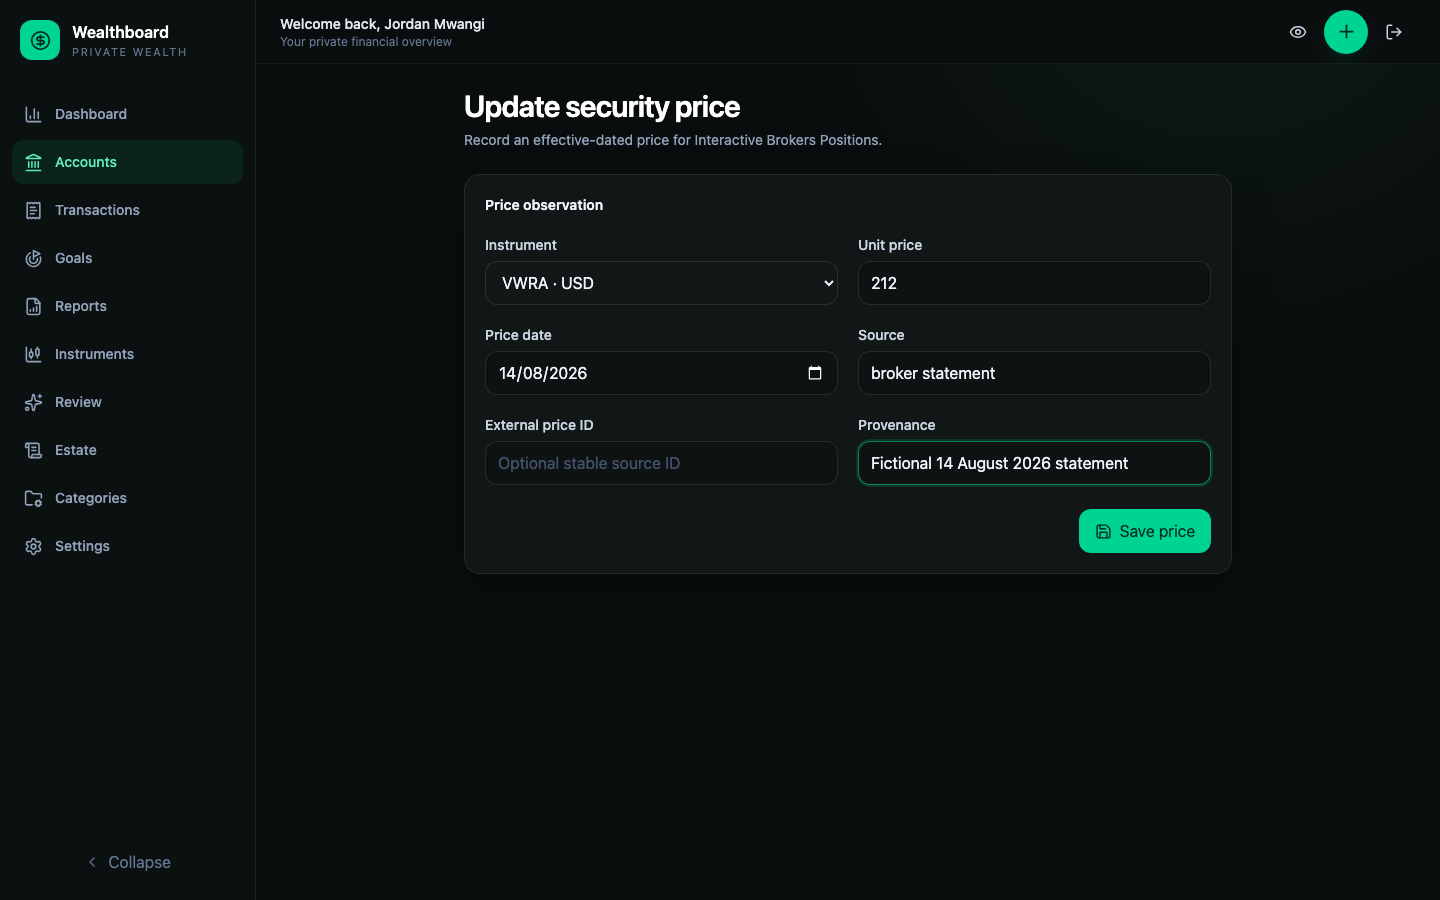
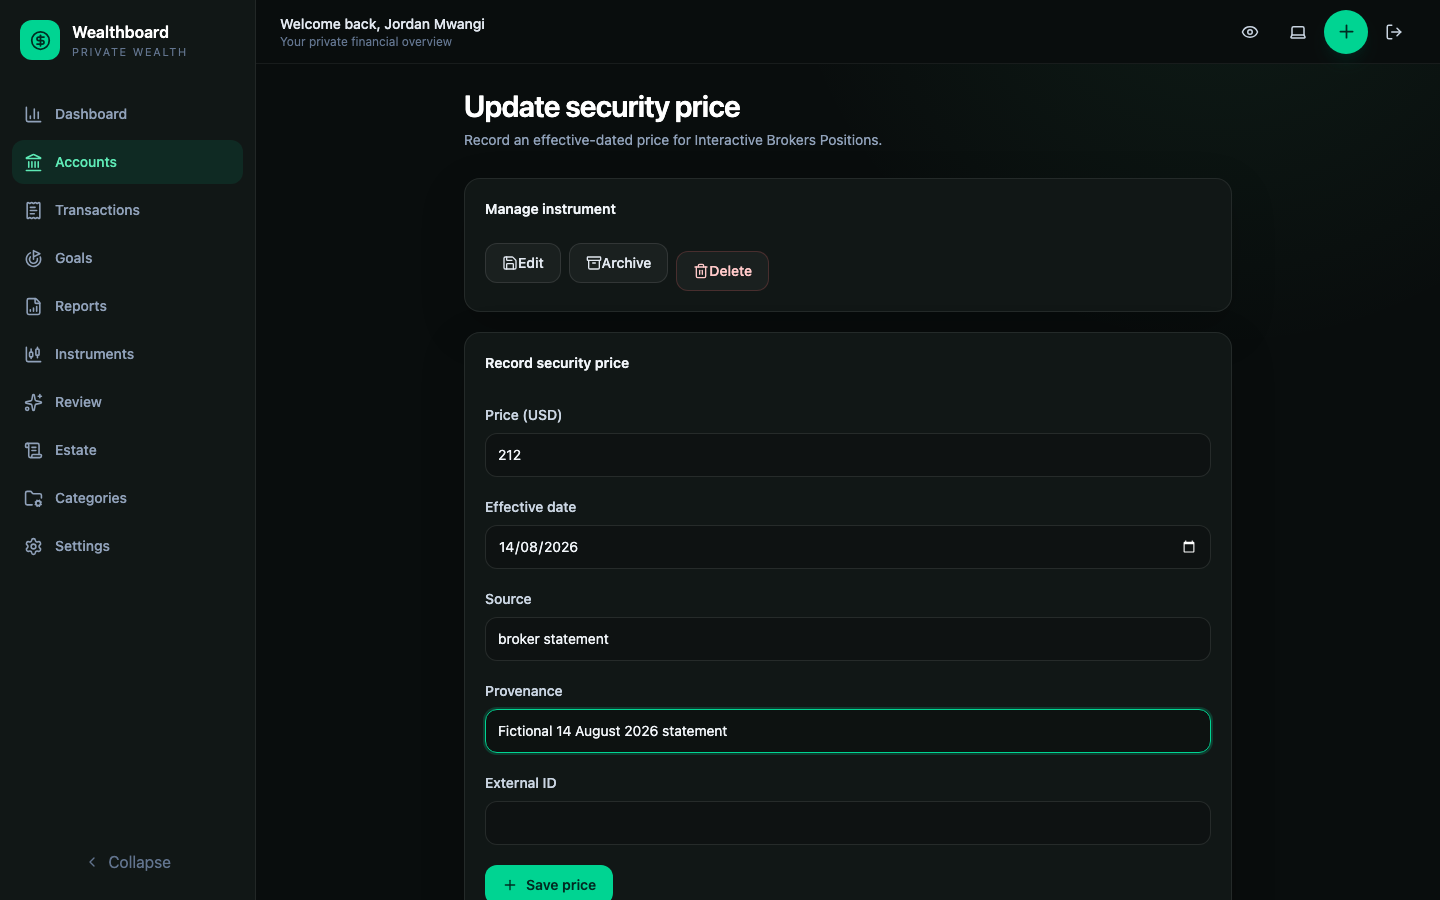
feat: add CorporateActionsPanel component and integrate with AccountWorkflowPage; update tests for new functionality

diff --git a/tests/docs/capture.spec.ts b/tests/docs/capture.spec.ts
@@ -194,7 +194,7 @@ test("capture the Wealthboard product guide", async ({ page }) => {
   ).toBeVisible();
   await page.getByRole("link", { name: "Price", exact: true }).click();
   await page.getByLabel(/^Price \(/).fill("212");
-  await page.getByLabel("Price date").fill("2026-08-14");
+  await page.getByLabel("Effective date").fill("2026-08-14");
   await page.getByLabel("Source").fill("broker statement");
   await page
     .getByLabel("Provenance")
@@ -202,44 +202,51 @@ test("capture the Wealthboard product guide", async ({ page }) => {
   await capturePage(page, "security-price-entry.png");
   await page.getByRole("button", { name: "Save price" }).click();
 
+  await page.goto(`/accounts/${positionAccountId}`);
   await page.getByRole("link", { name: "Reinvest" }).click();
-  await page.getByLabel(/Dividend amount/).fill("106");
-  await page.getByLabel("Execution price per unit").fill("212");
-  await page.getByLabel("Purchased quantity").fill("0.5");
+  await page.getByLabel(/^Dividend \(/).fill("106");
+  await page.getByLabel("Unit price").fill("212");
+  await page.getByLabel("Quantity").fill("0.5");
   await page.getByLabel("Effective date").fill("2026-08-14");
-  await page.getByLabel("Private notes").fill("Fictional reinvestment");
+  await page.getByLabel("Notes").fill("Fictional reinvestment");
   await captureLocator(
-    cardForHeading(page, "Authoritative source activity"),
+    cardForHeading(page, "Corporate actions"),
     "investment-actions.png",
   );
-  await page
-    .getByRole("button", { name: "Save dividend reinvestment" })
-    .click();
+  await page.getByRole("button", { name: /Record Dividend/ }).click();
 
+  await page.goto(`/accounts/${positionAccountId}`);
   await page.getByRole("link", { name: "Reconcile" }).click();
-  await page.getByLabel("Statement date").fill("2026-08-14");
-  await page.getByLabel(/Reported cash/).fill("905");
-  await page.getByLabel(/Reported total/).fill("4405");
-  await page.getByLabel("Notes").fill("Fictional broker statement comparison");
-  await page.getByRole("button", { name: "Save reconciliation" }).click();
+  const reconciliation = page
+    .getByLabel("Observation date")
+    .locator("xpath=ancestor::form");
+  await reconciliation.getByLabel("Observation date").fill("2026-08-14");
+  await reconciliation.getByLabel(/Reported cash/).fill("905");
+  await reconciliation.getByLabel(/Reported total/).fill("4405");
+  await reconciliation
+    .getByLabel("Notes")
+    .fill("Fictional broker statement comparison");
+  await reconciliation
+    .getByRole("button", { name: "Save reconciliation" })
+    .click();
   await expect(
-    page.getByRole("heading", { name: "Statement reconciliations" }),
+    page.getByText("Fictional broker statement comparison", { exact: true }),
   ).toBeVisible();
+  await page.goto(`/accounts/${positionAccountId}`);
   await capturePage(page, "position-account-detail.png");
 
   await page.goto(`/accounts/${positionAccountId}/import`);
+  await page.getByLabel("Convert document with AI").check();
   await expect(
-    page.getByRole("heading", {
-      name: "Prepare your investment file with AI",
-    }),
+    page.getByRole("heading", { name: "Source file conversion" }),
   ).toBeVisible();
-  await page.getByRole("button", { name: "Show prompt" }).click();
   await captureLocator(
-    cardForHeading(page, "Prepare your investment file with AI"),
+    cardForHeading(page, "Source file conversion"),
     "investment-ai-prompt.png",
   );
-  await page.getByRole("button", { name: "Hide prompt" }).click();
-  await page.getByLabel("CSV or JSON file").setInputFiles({
+  await page.getByLabel("Formatted CSV / JSON").check();
+  const investmentImport = cardForHeading(page, "Investment history import");
+  await investmentImport.getByLabel("Import file").setInputFiles({
     name: "fictional-investment-history.json",
     mimeType: "application/json",
     buffer: Buffer.from(
@@ -292,7 +299,7 @@ test("capture the Wealthboard product guide", async ({ page }) => {
       }),
     ),
   });
-  await page.getByRole("button", { name: "Preview file" }).click();
+  await investmentImport.getByRole("button", { name: "Preview" }).click();
   await expect(
     page.getByText(/Interactive Brokers Positions · 3 source records/),
   ).toBeVisible();

diff --git a/web/src/components/accounts/advanced-workflows.test.tsx b/web/src/components/accounts/advanced-workflows.test.tsx
@@ -1,7 +1,10 @@
 import { fireEvent, render, screen, waitFor } from "@testing-library/react";
 import { afterEach, describe, expect, it, vi } from "vitest";
 
-import { ImportWorkspace } from "@/components/accounts/advanced-workflows";
+import {
+  CorporateActionsPanel,
+  ImportWorkspace,
+} from "@/components/accounts/advanced-workflows";
 import * as api from "@/api/client";
 import type { Account } from "@/lib/types";
 
@@ -79,5 +82,32 @@ describe("ImportWorkspace", () => {
       ),
     );
     expect(changed).toHaveBeenCalledOnce();
+  });
+});
+
+describe("CorporateActionsPanel", () => {
+  it("opens in the action selected by the routed quick command", () => {
+    render(
+      <CorporateActionsPanel
+        account={account}
+        accounts={[account]}
+        instruments={[
+          {
+            id: "22222222-2222-4222-8222-222222222222",
+            name: "Example World ETF",
+            symbol: "EWLD",
+          } as never,
+        ]}
+        events={[]}
+        session={session}
+        onChanged={vi.fn()}
+        initialKind="dividend-reinvestments"
+      />,
+    );
+
+    expect(screen.getByLabelText("Action")).toHaveValue(
+      "dividend-reinvestments",
+    );
+    expect(screen.getByLabelText("Dividend (USD)")).toBeVisible();
   });
 });

diff --git a/web/src/components/accounts/advanced-workflows.tsx b/web/src/components/accounts/advanced-workflows.tsx
@@ -89,6 +89,7 @@ const corporateActionSchema = z
         });
   });
 type CorporateActionValues = z.infer<typeof corporateActionSchema>;
+export type CorporateActionKind = CorporateActionValues["kind"];
 
 export function CorporateActionsPanel({
   account,
@@ -97,6 +98,7 @@ export function CorporateActionsPanel({
   events,
   session,
   onChanged,
+  initialKind = "stock-splits",
 }: {
   account: Account;
   accounts: Account[];
@@ -104,6 +106,7 @@ export function CorporateActionsPanel({
   events: PositionEvent[];
   session: Session;
   onChanged: () => void;
+  initialKind?: CorporateActionKind;
 }) {
   const [message, setMessage] = useState("");
   const [error, setError] = useState("");
@@ -111,7 +114,7 @@ export function CorporateActionsPanel({
   const form = useForm<CorporateActionValues>({
     resolver: zodResolver(corporateActionSchema),
     defaultValues: {
-      kind: "stock-splits",
+      kind: initialKind,
       instrumentId: instruments[0]?.id ?? "",
       relatedInstrumentId: "",
       destinationAccountId: "",

diff --git a/web/src/pages/core.tsx b/web/src/pages/core.tsx
@@ -1994,6 +1994,14 @@ function AccountWorkflowPage({
 }) {
   const { id = "" } = useParams();
   const navigate = useNavigate();
+  const [searchParams] = useSearchParams();
+  const command = searchParams.get("command");
+  const corporateActionKind =
+    command === "reinvestment"
+      ? "dividend-reinvestments"
+      : command === "in_kind_transfer"
+        ? "in-kind-transfers"
+        : "stock-splits";
   const [refresh, setRefresh] = useState(0);
   const state = useResource(
     () =>
@@ -2058,6 +2066,7 @@ function AccountWorkflowPage({
               events={events.items}
               session={session}
               onChanged={() => setRefresh((value) => value + 1)}
+              initialKind={corporateActionKind}
             />
           ) : (
             <PositionTools
